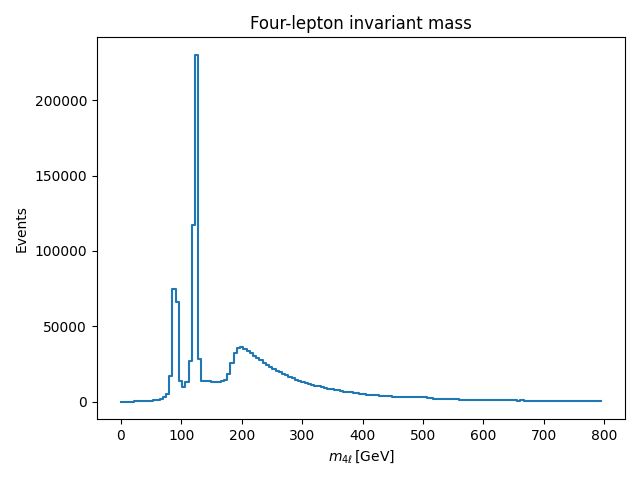
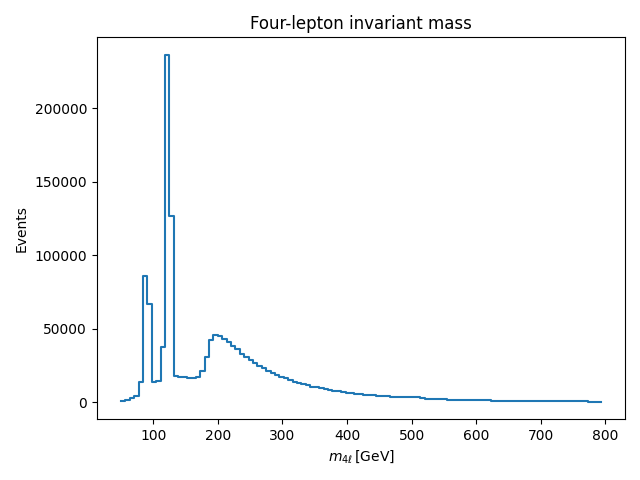
Speed up 4-lepton mass analysis, added parallel processing and zoomed plot

diff --git a/src/run_analysis.py b/src/run_analysis.py
@@ -1,20 +1,16 @@
 """
-Main entry point for a simple H->ZZ->4l-style analysis on the ATLAS
-Open Data mini-ntuples.
+Main entry point for the H->ZZ->4l analysis.
 
-This script:
-  * Reads all *.4lep.root files listed in config/config.yaml
-  * Applies basic lepton kinematic cuts
-  * Requires at least 4 leptons per event
-  * Builds lepton four-vectors and reconstructs a 4-lepton invariant mass
-    for each event (using the four highest-pT leptons)
-  * Fills and saves a 1D histogram of m4l to outputs/m4l_counts.npy,
-    outputs/m4l_edges.npy, and outputs/m4l.png
+Reads ATLAS Open Data mini-ntuples, applies a simple lepton
+selection, reconstructs a four-lepton candidate in each event,
+and fills an m4l histogram.
 """
 
 import argparse
 import glob
 import os
+from concurrent.futures import ProcessPoolExecutor, as_completed
+
 import yaml
 import awkward as ak
 import numpy as np
@@ -51,21 +47,28 @@ def load_config(path):
 # Per-file analysis
 def process_file(filename, config):
     """
-    Vectorised H→ZZ→4ℓ-like analysis.
-    Uses awkward broadcasting + vector Lorentz sums
+    Per-file 4-lepton analysis.
+
+    Steps:
+      1. Load branches needed for lepton kinematics.
+      2. Apply basic lepton cuts: pT and |eta|.
+      3. Require >= 4 leptons in the event.
+      4. For each event, sort leptons by pT and take the 4 leading.
+      5. Sum their four-vectors to form a Higgs candidate.
+      6. Fill an m4l histogram (in GeV).
     """
 
-    # Load leptons
+    # 1) Load events
     arrays = load_events(filename)
 
-    # Basic selection
+    # 2) Basic lepton selection
     arrays = basic_lepton_selection(
         arrays,
         pt_min=config["selection"]["pt_min"],
         eta_max=config["selection"]["eta_max"],
     )
 
-    # Require >= 4 leptons
+    # 3) Require >= 4 leptons
     arrays = four_lepton_event_selection(arrays)
 
     # If no events pass, return an empty histogram
@@ -74,51 +77,58 @@ def process_file(filename, config):
     hmax = config["hist"]["max"]
 
     m4l_axis = hist.axis.Regular(
-        nbins, hmin, hmax, name="m4l", label=r"$m_{4\ell}\,[GeV]$"
+        nbins, hmin, hmax, name="m4l", label=r"$m_{4\ell}\,\mathrm{[GeV]}$"
     )
     h = Hist(m4l_axis)
 
     if len(arrays) == 0:
         return h, {"filename": filename, "n_events": 0}
 
-    # Build lorentz vectors
+    # 4) Build lepton four-vectors (still in MeV)
     leptons = vector.Array(
         ak.zip(
             {
                 "pt": arrays["lep_pt"],
                 "eta": arrays["lep_eta"],
                 "phi": arrays["lep_phi"],
-                "E":   arrays["lep_E"],
+                "E": arrays["lep_E"],
             }
         )
     )
 
-    # Sort leptons per event by pT descending
+    # 5) Sort leptons in each event by pT, descending, and keep leading 4
     idx = ak.argsort(leptons.pt, axis=1, ascending=False)
-
-    # Reorder leptons
     leptons_sorted = leptons[idx]
+    leptons4 = leptons_sorted[:, :4]
 
-    # Take the first 4 leptons per event
-    top4 = leptons_sorted[:, :4]        # shape: (events, 4)
+    # 6) Sum the four leading leptons to form Higgs candidates
+    #    (Awkward reduction over the event axis)
+    higgs = ak.sum(leptons4, axis=1)  # still MeV
+    m4l = higgs.mass / 1000.0      # convert to GeV
 
-    # Vectorized 4-vector sum: sum over axis=1
-    higgs = ak.sum(top4, axis=1)
+    m4l_np = ak.to_numpy(m4l)
 
-    # Convert MeV → GeV
-    m4l = higgs.mass / 1000.0
+    if m4l_np.size > 0:
+        h.fill(m4l_np)
 
-    # Fill histogram
-    h.fill(m4l.to_numpy())
+    info = {"filename": filename, "n_events": len(arrays)}
+    return h, info
 
-    return h, {"filename": filename, "n_events": len(arrays)}
 
+def safe_process_file(fname, config):
+    """
+    Wrapper so that a bad file doesn't kill the whole job.
+    """
+    try:
+        return process_file(fname, config)
+    except Exception as e:
+        print(f"[WARN] Error in file {fname}: {e}")
+        return None
 
 def main():
     args = parse_args()
     config = load_config(args.config)
 
-    # Discover files
     pattern = os.path.join(config["data_dir"], config["file_pattern"])
     files = sorted(glob.glob(pattern))
 
@@ -127,16 +137,43 @@ def main():
 
     print(f"Found {len(files)} input files.")
 
+    use_parallel = config.get("parallel", False)
+    n_workers = int(config.get("n_workers", os.cpu_count() or 2))
+
     results = []
-    for i, fname in enumerate(files, start=1):
-        print(f"[{i}/{len(files)}] Processing {fname} ...")
-        h, info = process_file(fname, config)
-        results.append((h, info))
+
+    if use_parallel:
+        print(f"Running in parallel with {n_workers} workers.")
+        with ProcessPoolExecutor(max_workers=n_workers) as pool:
+            future_to_file = {
+                pool.submit(safe_process_file, fname, config): fname
+                for fname in files
+            }
+            n_total = len(future_to_file)
+            for i, fut in enumerate(as_completed(future_to_file), start=1):
+                fname = future_to_file[fut]
+                try:
+                    out = fut.result()
+                    if out is not None:
+                        results.append(out)
+                        print(f"[{i}/{n_total}] Done {fname}")
+                    else:
+                        print(f"[{i}/{n_total}] Skipped {fname}")
+                except Exception as e:
+                    print(f"[ERROR] {fname} raised: {e}")
+    else:
+        for i, fname in enumerate(files, start=1):
+            print(f"[{i}/{len(files)}] Processing {fname} ...")
+            out = safe_process_file(fname, config)
+            if out is not None:
+                results.append(out)
+    if not results:
+        raise RuntimeError("No successful per-file results; nothing to merge.")
 
     # Separate histograms and metadata
     hists, infos = zip(*results)
 
-    # Filter out any histograms that are not Hist instances (just in case)
+    # Keep only proper histograms
     hists = [h for h in hists if isinstance(h, Hist)]
 
     if not hists:
@@ -147,11 +184,9 @@ def main():
     for h in hists[1:]:
         total_hist += h
 
-    # Ensure output directory exists
     outdir = config["output_dir"]
     os.makedirs(outdir, exist_ok=True)
 
-    # Save histogram contents: bin counts and edges
     counts = total_hist.values()
     edges = total_hist.axes[0].edges
 
@@ -168,8 +203,22 @@ def main():
     fig.savefig(os.path.join(outdir, "m4l.png"))
     plt.close(fig)
 
-    print(f"Processed {len(files)} files.")
-    print(f"Saved histogram arrsays and plot to: {outdir}")
+    # zoomed plot around Z and Higgs region
+    fig, ax = plt.subplots()
+    ax.step(edges[:-1], counts, where="post")
+    ax.set_xlim(70, 180)
+    ax.set_xlabel(r"$m_{4\ell}\,\mathrm{[GeV]}$")
+    ax.set_ylabel("Events")
+    ax.set_title("Four-lepton invariant mass (zoom)")
+    ax.axvline(91.2, linestyle="--", alpha=0.7, label="Z mass")
+    ax.axvline(125.0, linestyle="--", alpha=0.7, label="Higgs mass")
+    ax.legend()
+    fig.tight_layout()
+    fig.savefig(os.path.join(outdir, "m4l_zoom.png"))
+    plt.close(fig)
+
+    print(f"Processed {len(results)} files.")
+    print(f"Saved histogram arrays and plots in: {outdir}")
 
 
 if __name__ == "__main__":
